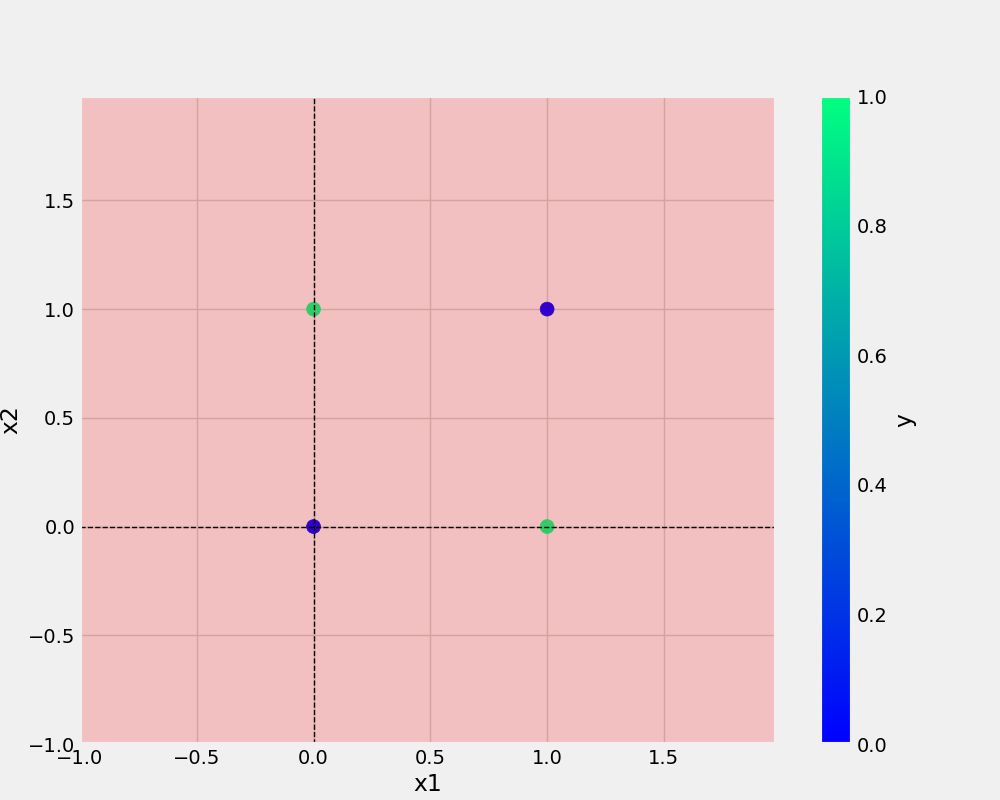
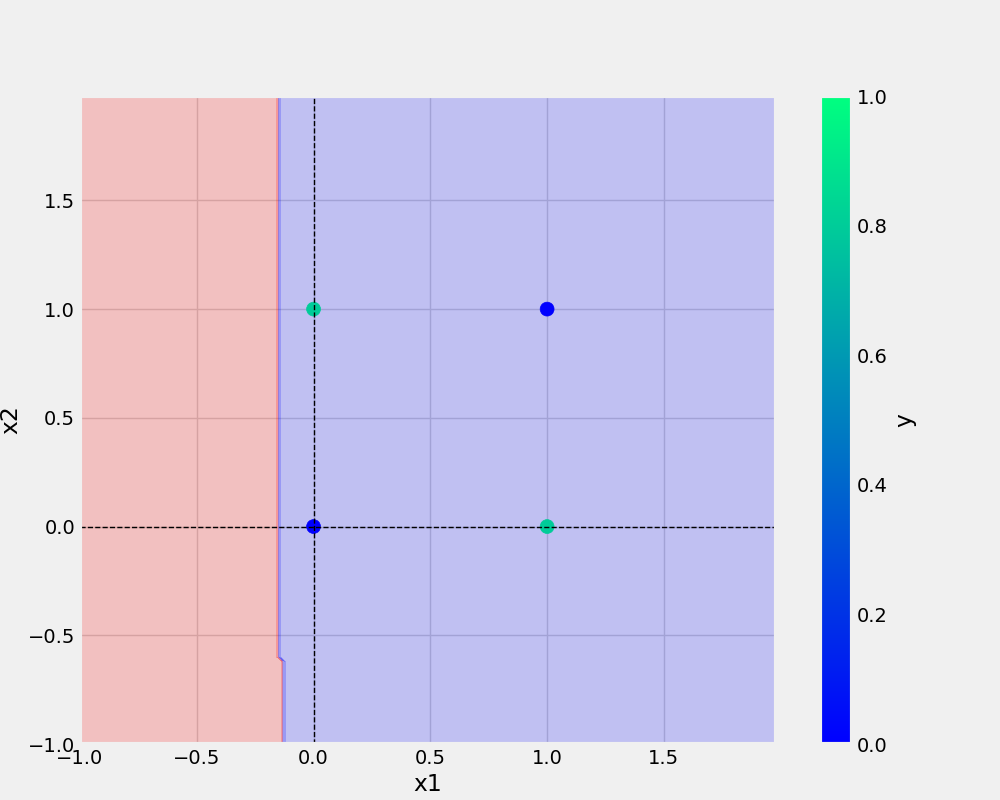
readme update

diff --git a/README.md b/README.md
@@ -1,2 +1,62 @@
 # oneNeuron
 Perceptrion
+
+
+## Add image - 
+![sample Image](plots/and_main.png)
+
+
+## python code
+```python
+from utils.model import Perceptron
+from utils.all_utils import prepare_data, save_model, save_plot
+import pandas as pd
+import numpy as np
+import logging
+import os 
+
+
+logging_str = "[%(asctime)s: %(levelname)s: %(module)s ] %(message)s"
+log_dir = "logs"
+os.makedirs(log_dir,exist_ok=True)
+logging.basicConfig(filename= os.path.join(log_dir,"Runnig_logs_and.log"),level=logging.INFO, format=logging_str,filemode="a")
+
+
+def main (data,eta,epochs,filename,plotname):
+
+    df= pd.DataFrame(data)
+    logging.info(f"This is the actual DataFrame{df}")
+    ## Implementing Prepare_data method from all_utils.py
+    x,y = prepare_data(df) 
+
+    
+
+    model = Perceptron(eta=eta, epochs=epochs)
+    model.fit(x,y)
+
+    _ = model.total_loss()
+
+    save_model(model,filename=filename)
+    save_plot(df,plotname,model)
+
+
+
+if __name__ == "__main__": ## << entry point
+
+        ##    Implementing Truth Table [AND DATASET] 
+    AND = {
+            "x1": [0,0,1,1],
+            "x2": [0,1,0,1],
+            "y": [0,0,0,1]
+    }
+
+    ETA = 0.3 ## 0 AND 1
+    EPOCHS = 10
+    try:
+        logging.info(">>>>> starting training >>>>>")
+        main(data=AND,eta=ETA,epochs=EPOCHS,filename="and_main.model",plotname="and_main.png")
+        logging.info("<<<<< training done successfully<<<<<\n")
+    except Exception as e: 
+        logging.exception(e)
+        raise e
+```
